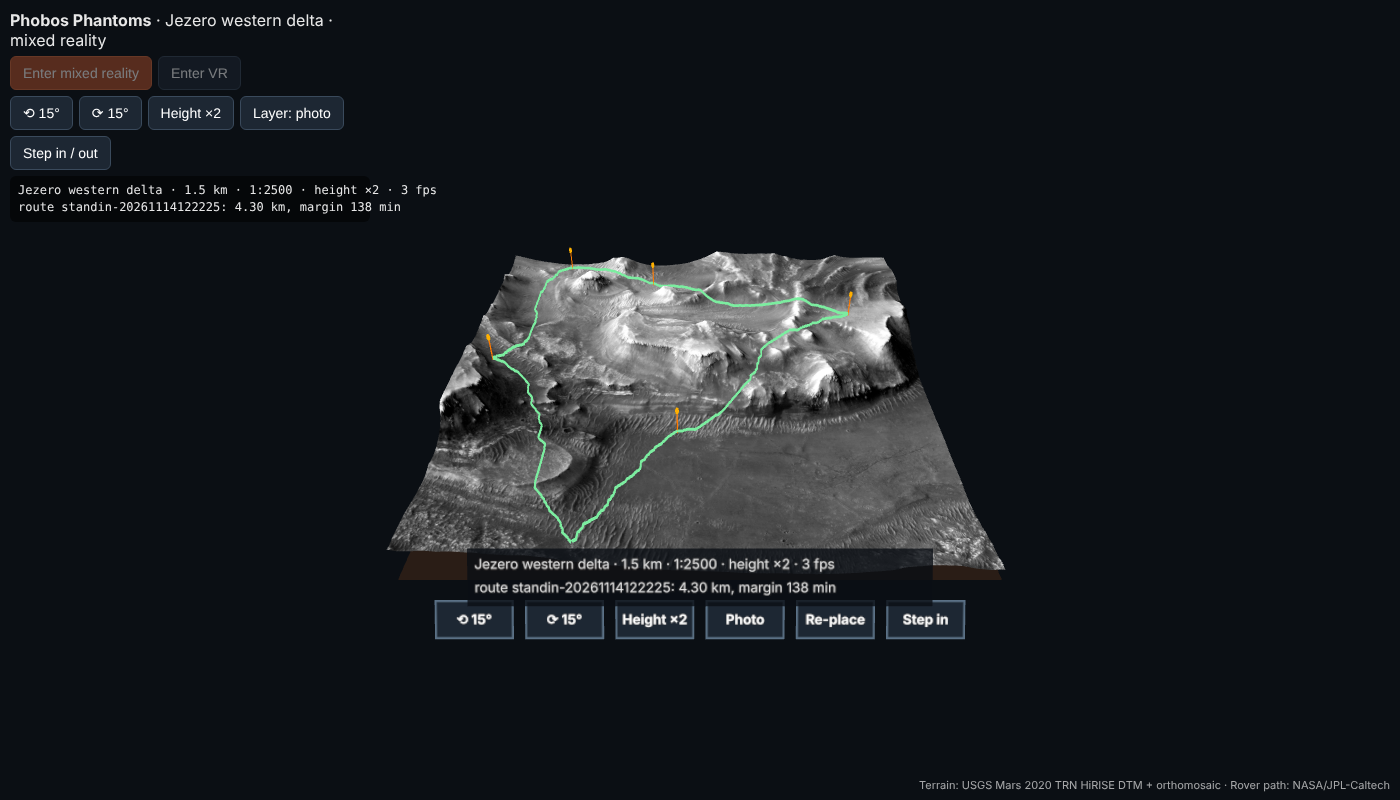
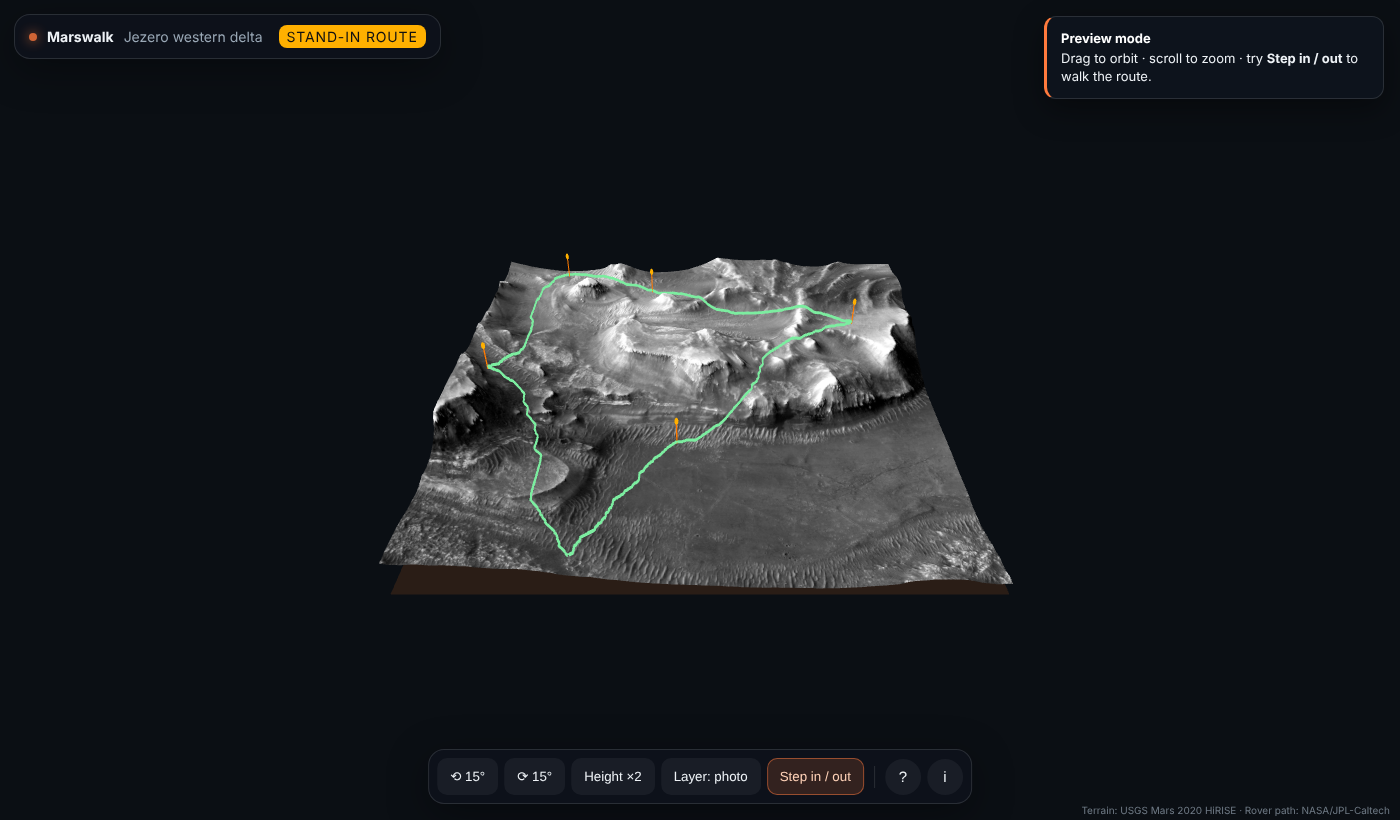
[P5] Headset page: welcome screen, onboarding guide in page and headset, toolbar, toasts

diff --git a/xr/src/ui.css b/xr/src/ui.css
@@ -1,0 +1,89 @@
+/* Written with AI assistance (Claude). Marswalk headset page: welcome + HUD. Track [P5]. */
+:root { --bg:#06090f; --glass:rgba(14,20,30,.62); --line:rgba(255,255,255,.12); --txt:#eef2f6; --mut:#9aa8b6; --mars:#ff7a3d; --mars2:#ffb26b; --ok:#5ee2a0; }
+* { box-sizing: border-box; }
+html, body { margin:0; height:100%; background:var(--bg); color:var(--txt); font-family: "Inter", system-ui, -apple-system, "Segoe UI", sans-serif; overflow:hidden; }
+canvas { display:block; }
+.hidden { display:none !important; }
+.glass { background:var(--glass); backdrop-filter: blur(14px) saturate(140%); -webkit-backdrop-filter: blur(14px) saturate(140%); border:1px solid var(--line); border-radius:16px; box-shadow: 0 10px 40px rgba(0,0,0,.35); }
+.dot { width:8px; height:8px; border-radius:50%; background:var(--mars); box-shadow:0 0 12px var(--mars); display:inline-block; animation: blink 2.4s infinite; }
+@keyframes blink { 50% { opacity:.35; } }
+
+/* ---------- welcome ---------- */
+#welcome { position:fixed; inset:0; z-index:20; display:grid; place-items:center; overflow:hidden;
+  background: radial-gradient(1200px 700px at 75% 110%, rgba(255,110,50,.28), transparent 60%), radial-gradient(900px 600px at 10% -10%, rgba(80,120,255,.12), transparent 60%), var(--bg);
+  transition: opacity .7s ease, visibility .7s; }
+#welcome.out { opacity:0; visibility:hidden; }
+.stars, .stars.s2 { position:absolute; inset:-50%; background-image:
+  radial-gradient(1px 1px at 20% 30%, #fff8, transparent), radial-gradient(1px 1px at 70% 80%, #fff6, transparent),
+  radial-gradient(1.5px 1.5px at 40% 60%, #fffa, transparent), radial-gradient(1px 1px at 85% 15%, #fff7, transparent),
+  radial-gradient(1px 1px at 55% 45%, #fff5, transparent), radial-gradient(1.2px 1.2px at 10% 85%, #fff8, transparent);
+  background-size: 320px 320px; animation: drift 120s linear infinite; opacity:.8; }
+.stars.s2 { background-size: 540px 540px; animation-duration: 200s; opacity:.5; }
+@keyframes drift { to { transform: translate3d(-320px, -160px, 0); } }
+.planet { position:absolute; width:120vmax; height:120vmax; left:50%; top:78%; transform:translateX(-50%); border-radius:50%;
+  background: radial-gradient(circle at 50% 30%, #c4552a 0%, #7a2d14 35%, #2a0e06 60%, transparent 61%);
+  box-shadow: 0 -30px 140px rgba(255,110,50,.45); opacity:.85; animation: rise 2.2s cubic-bezier(.2,.8,.2,1) both; }
+@keyframes rise { from { transform: translate(-50%, 18%); opacity:0; } }
+.scan { position:absolute; inset:0; background: repeating-linear-gradient(180deg, rgba(255,255,255,.025) 0 1px, transparent 1px 3px); pointer-events:none; }
+.card { position:relative; width:min(760px, 92vw); padding:34px 36px 26px; border-radius:24px; background:rgba(12,17,26,.66);
+  border:1px solid rgba(255,255,255,.14); backdrop-filter: blur(18px); -webkit-backdrop-filter: blur(18px);
+  box-shadow: 0 30px 80px rgba(0,0,0,.55), inset 0 1px 0 rgba(255,255,255,.08); animation: up .9s .15s cubic-bezier(.2,.8,.2,1) both; }
+.card::before { content:""; position:absolute; inset:-1px; border-radius:24px; padding:1px; pointer-events:none;
+  background: linear-gradient(120deg, rgba(255,122,61,.8), transparent 35%, transparent 65%, rgba(120,160,255,.5));
+  -webkit-mask: linear-gradient(#000 0 0) content-box, linear-gradient(#000 0 0); -webkit-mask-composite: xor; mask-composite: exclude; }
+@keyframes up { from { transform: translateY(24px); opacity:0; } }
+.eyebrow { font-size:12px; letter-spacing:.14em; text-transform:uppercase; color:var(--mut); display:flex; gap:10px; align-items:center; }
+h1 { margin:10px 0 6px; font-size: clamp(44px, 7vw, 76px); line-height:1; letter-spacing:-.03em; font-weight:800; }
+h1 span { background: linear-gradient(90deg, var(--mars), var(--mars2)); -webkit-background-clip:text; background-clip:text; color:transparent; }
+.lead { font-size:18px; color:#d7dee6; margin:0 0 18px; max-width:600px; line-height:1.45; }
+.chips { display:flex; flex-wrap:wrap; gap:8px; margin-bottom:20px; min-height:34px; }
+.chip { padding:7px 12px; border-radius:999px; background:rgba(255,255,255,.06); border:1px solid var(--line); font-size:13px; color:#dfe6ee; animation: up .5s both; }
+.chip b { color:#fff; } .chip.warn { border-color: rgba(255,178,107,.5); color: var(--mars2); }
+.chip.skeleton { color:var(--mut); background: linear-gradient(90deg, rgba(255,255,255,.04), rgba(255,255,255,.1), rgba(255,255,255,.04)); background-size:200% 100%; animation: shimmer 1.4s infinite; }
+@keyframes shimmer { to { background-position: -200% 0; } }
+.steps { list-style:none; padding:0; margin:0 0 24px; display:grid; grid-template-columns: repeat(3, 1fr); gap:12px; }
+.steps li { display:flex; gap:12px; padding:14px; border-radius:14px; background:rgba(255,255,255,.04); border:1px solid var(--line); animation: up .6s both; }
+.steps li:nth-child(2) { animation-delay:.1s; } .steps li:nth-child(3) { animation-delay:.2s; }
+.steps .ico { flex:none; width:34px; height:34px; border-radius:10px; display:grid; place-items:center; font-size:18px; color:var(--mars2); background:rgba(255,122,61,.12); border:1px solid rgba(255,122,61,.35); }
+.steps b { display:block; font-size:15px; margin-bottom:3px; } .steps span { font-size:13px; color:var(--mut); line-height:1.4; }
+.cta { display:flex; flex-wrap:wrap; gap:12px; align-items:center; }
+.btn { position:relative; font: 600 16px/1 inherit; font-family:inherit; padding:15px 22px; border-radius:14px; cursor:pointer; border:1px solid var(--line); color:var(--txt); background:rgba(255,255,255,.06); transition: transform .15s, background .2s, box-shadow .2s; }
+.btn:hover:not(:disabled) { transform: translateY(-1px); background:rgba(255,255,255,.1); }
+.btn.primary { background: linear-gradient(135deg, var(--mars), #e2452a); border-color: transparent; box-shadow: 0 8px 30px rgba(255,100,50,.4); padding-left:38px; }
+.btn.primary:hover:not(:disabled) { box-shadow: 0 10px 40px rgba(255,100,50,.6); }
+.btn:disabled { opacity:.4; cursor:default; box-shadow:none; }
+.btn .pulse { position:absolute; left:16px; top:50%; width:10px; height:10px; margin-top:-5px; border-radius:50%; background:#fff; animation: ping 1.6s infinite; }
+@keyframes ping { 0% { box-shadow: 0 0 0 0 rgba(255,255,255,.7); } 100% { box-shadow: 0 0 0 12px rgba(255,255,255,0); } }
+.note { margin:14px 0 0; font-size:13px; color:var(--mut); min-height:18px; }
+.note.good { color: var(--ok); }
+.progress { margin-top:18px; height:3px; border-radius:3px; background:rgba(255,255,255,.08); overflow:hidden; }
+#bar { height:100%; width:8%; background: linear-gradient(90deg, var(--mars), var(--mars2)); transition: width .6s ease; }
+.foot { position:absolute; bottom:12px; left:0; right:0; text-align:center; font-size:11px; color:var(--mut); opacity:.8; }
+@media (max-width: 720px), (max-height: 700px) {
+  #welcome { place-items: start center; overflow-y: auto; padding: 16px 0 24px; }
+  .steps { grid-template-columns: 1fr; gap:8px; } .steps li { padding:10px 12px; }
+  .card { padding:22px 18px; } .lead { font-size:16px; } h1 { font-size:46px; }
+  .foot { position: static; margin-top: 12px; padding: 0 16px; }
+}
+
+/* ---------- HUD ---------- */
+#brand { position:fixed; top:14px; left:14px; z-index:5; display:flex; align-items:center; gap:10px; padding:10px 14px; font-size:14px; animation: up .5s both; }
+#brand em { color:var(--mut); font-style:normal; }
+.badge { margin-left:6px; padding:3px 8px; border-radius:8px; font: 700 11px/1.3 inherit; letter-spacing:.06em; background:#ffb000; color:#111; }
+#ui { position:fixed; bottom:16px; left:50%; transform:translateX(-50%); z-index:5; display:flex; align-items:center; gap:6px; padding:8px; flex-wrap:wrap; justify-content:center; max-width:96vw; animation: up .5s .1s both; }
+.tool { font: 600 13px/1 inherit; font-family:inherit; color:var(--txt); background:rgba(255,255,255,.05); border:1px solid transparent; padding:10px 12px; border-radius:10px; cursor:pointer; transition: background .15s, border-color .15s; white-space:nowrap; }
+.tool:hover:not(:disabled) { background:rgba(255,255,255,.12); border-color: var(--line); }
+.tool.primary { background: linear-gradient(135deg, var(--mars), #e2452a); }
+.tool.accent { background: rgba(255,122,61,.16); border-color: rgba(255,122,61,.5); color:#ffd2b8; }
+.tool.round { width:36px; height:36px; padding:0; border-radius:50%; font-size:15px; }
+.tool:disabled { opacity:.35; cursor:default; }
+.sep { width:1px; height:22px; background: var(--line); margin:0 4px; }
+#datapanel { position:fixed; top:64px; left:14px; z-index:5; padding:12px 14px; max-width:min(440px, 92vw); animation: up .3s both; }
+#datapanel .ph { font-size:11px; letter-spacing:.12em; text-transform:uppercase; color:var(--mut); margin-bottom:6px; }
+#status { font: 12px/1.5 ui-monospace, "SF Mono", Consolas, monospace; white-space: pre-wrap; color:#cfd8e2; }
+#toasts { position:fixed; top:16px; right:16px; z-index:30; display:flex; flex-direction:column; gap:8px; align-items:flex-end; pointer-events:none; }
+.toast { pointer-events:auto; max-width:340px; padding:12px 14px; border-radius:12px; background:rgba(14,20,30,.88); border:1px solid var(--line); border-left:3px solid var(--mars); font-size:13px; line-height:1.4; box-shadow:0 10px 30px rgba(0,0,0,.4); animation: tin .35s cubic-bezier(.2,.8,.2,1) both; }
+.toast b { display:block; margin-bottom:2px; color:#fff; } .toast.out { animation: tout .3s both; }
+@keyframes tin { from { transform: translateX(30px); opacity:0; } } @keyframes tout { to { transform: translateX(30px); opacity:0; } }
+#credit { position:fixed; bottom:4px; right:10px; font-size:10px; color:var(--mut); opacity:.7; z-index:4; }
+@media (prefers-reduced-motion: reduce) { * { animation:none !important; transition:none !important; } }

diff --git a/xr/src/main.js b/xr/src/main.js
@@ -19,6 +19,8 @@ const EXAGS = [1, 2, 4];          // height exaggeration options; default x2
 const PINCH_ON = 0.02, PINCH_OFF = 0.035;
 const statusEl = document.getElementById("status");
 const setStatus = (t) => { statusEl.textContent = t; };
+const emit = (name, detail = {}) => window.dispatchEvent(new CustomEvent("phobos:" + name, { detail }));
+
 
 // ---------- renderer / scene ----------
 const renderer = new THREE.WebGLRenderer({ antialias: true, alpha: true });
@@ -112,6 +114,10 @@ async function init() {
   applyScale(1);
   setStatus(info());
   enableButtons();
+  const pr = routeData?.properties;
+  emit("ready", { routeInfo, standin: String(pr?.plan_id || "").startsWith("standin-"),
+    length_km: pr ? pr.length_m / 1000 : null, margin_min: pr?.margin_min ?? null, stops: pr?.stops?.length ?? 0,
+    eva: winData?.eva_window ?? null });
 }
 
 // ---------- route ribbon ----------
@@ -260,6 +266,7 @@ async function enterXR(mode) {
   await renderer.xr.setSession(session);
   scene.background = mode === "immersive-ar" ? null : desktopBg;
   placed = false; anchor.visible = false; sessionStart = performance.now();
+  emit("session", { mode }); showHint("place");
   if (mode === "immersive-ar") {
     const viewer = await session.requestReferenceSpace("viewer");
     hitSource = await session.requestHitTestSource({ space: viewer });
@@ -267,14 +274,15 @@ async function enterXR(mode) {
   session.addEventListener("end", () => {
     if (walking) stopWalk();
     hitSource = null; scene.background = desktopBg; placed = true; anchor.visible = true;
-    anchor.position.set(0, 0, 0); reticle.visible = false;
+    anchor.position.set(0, 0, 0); reticle.visible = false; hint.visible = false;
+    emit("session-end");
   });
 }
 function enableButtons() {
   const ar = document.getElementById("btn-ar"), vr = document.getElementById("btn-vr");
-  if (!navigator.xr) { setStatus(info() + "\n(WebXR not available here — desktop preview only)"); return; }
-  navigator.xr.isSessionSupported("immersive-ar").then((ok) => { ar.disabled = !ok; });
-  navigator.xr.isSessionSupported("immersive-vr").then((ok) => { vr.disabled = !ok; });
+  if (!navigator.xr) { setStatus(info() + "\n(WebXR not available here — desktop preview only)"); emit("xr", { ar: false, vr: false }); return; }
+  Promise.all([navigator.xr.isSessionSupported("immersive-ar").catch(() => false), navigator.xr.isSessionSupported("immersive-vr").catch(() => false)])
+    .then(([a, v]) => { ar.disabled = !a; vr.disabled = !v; emit("xr", { ar: a, vr: v }); });
   ar.onclick = () => enterXR("immersive-ar").catch((e) => setStatus("AR failed: " + e.message));
   vr.onclick = () => enterXR("immersive-vr").catch((e) => setStatus("VR failed: " + e.message));
 }
@@ -284,6 +292,7 @@ function placeAt(pos) {   // put the hologram at pos, turned so the button panel
   anchor.position.copy(pos);
   anchor.rotation.set(0, Math.atan2(cam.position.x - pos.x, cam.position.z - pos.z), 0);
   anchor.visible = true; placed = true; reticle.visible = false;
+  showHint("explore");
 }
 function placeInFront() {
   const cam = renderer.xr.getCamera();
@@ -447,6 +456,8 @@ function startWalk() {
   walkYaw = Math.atan2(f.x, f.z) - Math.atan2(v.x, v.z);
   model.rotation.set(0, walkYaw, 0);
   updateWalk(performance.now());
+  emit("walk", { on: true });
+  if (renderer.xr.isPresenting) showHint("walk", 8000);
 }
 
 function stopWalk() {
@@ -461,6 +472,7 @@ function stopWalk() {
     applyScale(walkSaved.mult);
   }
   lastVisorKey = "";
+  emit("walk", { on: false });
 }
 
 const tmpV = new THREE.Vector3(), tmpQ = new THREE.Quaternion();
@@ -503,6 +515,41 @@ const walkInfo = () => walkNow
 // desktop: HTML Step in / Step out
 document.getElementById("btn-walk").onclick = () => (walking ? stopWalk() : startWalk());
 
+// ---------- in-headset guidance (a small card that floats below your line of sight) ----------
+const hintCanvas = document.createElement("canvas"); hintCanvas.width = 1024; hintCanvas.height = 256;
+const hintTex = new THREE.CanvasTexture(hintCanvas); hintTex.colorSpace = THREE.SRGBColorSpace;
+const hint = new THREE.Mesh(new THREE.PlaneGeometry(0.36, 0.09),
+  new THREE.MeshBasicMaterial({ map: hintTex, transparent: true, depthTest: false, depthWrite: false, fog: false }));
+hint.renderOrder = 11; hint.visible = false; scene.add(hint);
+const HINTS = {
+  place: ["STEP 1 · PLACE", "Look at a table until a white ring appears, then pinch (or pull the trigger)."],
+  explore: ["STEP 2 · EXPLORE", "Pinch & drag to move · two hands to scale · use the panel to rotate, change height or layer."],
+  walk: ["STEP 3 · WALK", "You are on Mars at full size. The visor shows your margin. Pause, speed or Step out at waist height."],
+};
+let hintUntil = 0;
+function showHint(key, ms = 9000) {
+  const [title, body] = HINTS[key]; const g = hintCanvas.getContext("2d");
+  g.clearRect(0, 0, 1024, 256);
+  g.fillStyle = "rgba(10,16,24,0.82)"; g.strokeStyle = "#ff8a4c"; g.lineWidth = 4;
+  g.beginPath(); g.roundRect(6, 6, 1012, 244, 28); g.fill(); g.stroke();
+  g.fillStyle = "#ff8a4c"; g.font = "700 40px system-ui, sans-serif"; g.fillText(title, 40, 70);
+  g.fillStyle = "#ffffff"; g.font = "36px system-ui, sans-serif";
+  const words = body.split(" "); let line = "", y = 135;
+  for (const w of words) { if (g.measureText(line + w).width > 940) { g.fillText(line, 40, y); line = ""; y += 48; } line += w + " "; }
+  g.fillText(line, 40, y);
+  hintTex.needsUpdate = true; hint.visible = renderer.xr.isPresenting; hint.userData.init = false;
+  hintUntil = key === "place" ? Infinity : performance.now() + ms;
+}
+function updateHint(now) {
+  if (!hint.visible) return;
+  if (now > hintUntil || (placed && hintUntil === Infinity)) { hint.visible = false; return; }
+  const cam = renderer.xr.getCamera(); const pos = new THREE.Vector3(), q = new THREE.Quaternion();
+  cam.getWorldPosition(pos); cam.getWorldQuaternion(q);
+  hint.quaternion.slerp(q, hint.userData.init ? 0.08 : 1);
+  hint.position.copy(pos).add(new THREE.Vector3(0, -0.16, -0.7).applyQuaternion(hint.quaternion));
+  hint.userData.init = true;
+}
+
 // ---------- loop ----------
 let frames = 0, t0 = performance.now();
 renderer.setAnimationLoop((time, frame) => {
@@ -519,8 +566,10 @@ renderer.setAnimationLoop((time, frame) => {
       if (!reticle.visible && now - sessionStart > 5000) placeInFront();   // fallback: 0.6 m in front
     } else if (!placed && !hitSource) placeInFront();
     updateHands();
+    updateHint(now);
   } else orbit.update();
   if (walking) updateWalk(now);
+  panel.visible = renderer.xr.isPresenting && !walking;   // in-world panel is for the headset; the page has its own toolbar
   renderer.render(scene, camera);
 });
 

diff --git a/xr/index.html b/xr/index.html
@@ -3,33 +3,66 @@
 <head>
   <meta charset="utf-8" />
   <meta name="viewport" content="width=device-width, initial-scale=1" />
-  <title>Phobos Phantoms — Jezero Marswalk (mixed reality)</title>
-  <style>
-    html, body { margin: 0; height: 100%; background: #0b0f14; color: #e8e8e8; font-family: system-ui, sans-serif; overflow: hidden; }
-    #ui { position: fixed; top: 10px; left: 10px; z-index: 2; display: flex; flex-direction: column; gap: 6px; max-width: 360px; }
-    #ui .row { display: flex; gap: 6px; flex-wrap: wrap; }
-    button { background: #1d2733; color: #fff; border: 1px solid #3a4a5c; border-radius: 6px; padding: 8px 12px; font-size: 14px; cursor: pointer; }
-    button.primary { background: #b4512a; border-color: #d76a3d; }
-    button:disabled { opacity: .45; cursor: default; }
-    #status { font: 12px/1.4 ui-monospace, monospace; background: #0008; padding: 6px 8px; border-radius: 6px; white-space: pre; }
-    #credit { position: fixed; bottom: 8px; right: 10px; font-size: 11px; opacity: .7; z-index: 2; }
-  </style>
+  <meta name="theme-color" content="#06090f" />
+  <title>Marswalk · Jezero in mixed reality · Phobos Phantoms</title>
+  <link rel="stylesheet" href="./src/ui.css" />
 </head>
 <body>
-  <div id="ui">
-    <div><b>Phobos Phantoms</b> · Jezero western delta · mixed reality</div>
-    <div class="row">
-      <button id="btn-ar" class="primary" disabled>Enter mixed reality</button>
-      <button id="btn-vr" disabled>Enter VR</button>
+  <!-- ===== Welcome / onboarding ===== -->
+  <section id="welcome" aria-label="Welcome">
+    <div class="stars"></div><div class="stars s2"></div>
+    <div class="planet"></div>
+    <div class="scan"></div>
+    <div class="card">
+      <div class="eyebrow"><span class="dot"></span> NASA Space Apps 2026 · Phobos Phantoms OG 7.66</div>
+      <h1>Mars<span>walk</span></h1>
+      <p class="lead">Rehearse a safe walk on <b>Jezero Crater, Mars</b>, right on your desk. Then step in and walk it at full size.</p>
+
+      <div class="chips" id="chips">
+        <div class="chip skeleton">Loading mission data…</div>
+      </div>
+
+      <ol class="steps">
+        <li><div class="ico">◎</div><div><b>Place</b><span>Look at a table, pinch the white ring. The 1.5 km crater area lands on your desk.</span></div></li>
+        <li><div class="ico">✥</div><div><b>Explore</b><span>Pinch-drag to move, two hands to scale. Switch photo or slope, exaggerate height.</span></div></li>
+        <li><div class="ico">⇲</div><div><b>Step in</b><span>Walk the planned route at 1:1 with a visor showing time margin, slope, AI hazard and the next stop.</span></div></li>
+      </ol>
+
+      <div class="cta">
+        <button id="go-ar" class="btn primary" disabled><span class="pulse"></span>Enter mixed reality</button>
+        <button id="go-preview" class="btn ghost">Preview on this screen</button>
+      </div>
+      <p class="note" id="xr-note">Checking your device…</p>
+      <div class="progress"><div id="bar"></div></div>
     </div>
-    <div class="row">
-      <button id="btn-rotl">⟲ 15°</button><button id="btn-rotr">⟳ 15°</button>
-      <button id="btn-exag">Height ×2</button><button id="btn-layer">Layer: photo</button>
-      <button id="btn-walk">Step in / out</button>
-    </div>
-    <div id="status">loading…</div>
-  </div>
-  <div id="credit">Terrain: USGS Mars 2020 TRN HiRISE DTM + orthomosaic · Rover path: NASA/JPL-Caltech</div>
+    <footer class="foot">Terrain: USGS Mars 2020 TRN HiRISE DTM + orthomosaic · Rover path: NASA/JPL-Caltech · Minerals: CRISM (MRO)</footer>
+  </section>
+
+  <!-- ===== In-app HUD (after the welcome) ===== -->
+  <header id="brand" class="glass hidden">
+    <span class="dot"></span><b>Marswalk</b><em>Jezero western delta</em>
+    <span id="badge" class="badge hidden">STAND-IN ROUTE</span>
+  </header>
+
+  <nav id="ui" class="glass hidden" aria-label="Controls">
+    <button id="btn-ar" class="tool primary" disabled title="Enter mixed reality (Quest)">Enter mixed reality</button>
+    <button id="btn-vr" class="tool" disabled title="Enter VR">Enter VR</button>
+    <span class="sep"></span>
+    <button id="btn-rotl" class="tool" title="Rotate left 15°">⟲ 15°</button>
+    <button id="btn-rotr" class="tool" title="Rotate right 15°">⟳ 15°</button>
+    <button id="btn-exag" class="tool" title="Exaggerate height">Height ×2</button>
+    <button id="btn-layer" class="tool" title="Photo or slope">Layer: photo</button>
+    <button id="btn-walk" class="tool accent" title="Walk the route at full size">Step in / out</button>
+    <span class="sep"></span>
+    <button id="btn-help" class="tool round" title="How it works">?</button>
+    <button id="btn-data" class="tool round" title="Mission data">i</button>
+  </nav>
+
+  <aside id="datapanel" class="glass hidden"><div class="ph">Mission data</div><div id="status">loading…</div></aside>
+  <div id="toasts" aria-live="polite"></div>
+  <div id="credit">Terrain: USGS Mars 2020 HiRISE · Rover path: NASA/JPL-Caltech</div>
+
+  <script type="module" src="./src/onboarding.js"></script>
   <script type="module" src="./src/main.js"></script>
 </body>
 </html>

diff --git a/xr/src/onboarding.js b/xr/src/onboarding.js
@@ -1,0 +1,67 @@
+// Written with AI assistance (Claude).
+// Welcome screen, guide, toasts and HUD wiring for the headset page. Listens to "phobos:*" events from main.js.
+// Track [P5].
+const $ = (id) => document.getElementById(id);
+const welcome = $("welcome"), goAR = $("go-ar"), goPrev = $("go-preview"), note = $("xr-note"), bar = $("bar");
+const hud = [$("brand"), $("ui")];
+let ready = false, xr = null;
+
+bar.style.width = "35%";
+function toast(title, body, ms = 5200) {
+  const t = document.createElement("div"); t.className = "toast";
+  t.innerHTML = `<b>${title}</b>${body}`;
+  $("toasts").appendChild(t);
+  setTimeout(() => { t.classList.add("out"); setTimeout(() => t.remove(), 320); }, ms);
+}
+function closeWelcome() {
+  welcome.classList.add("out");
+  hud.forEach((el) => el.classList.remove("hidden"));
+}
+function openWelcome() { welcome.classList.remove("out"); }
+
+function refreshCTA() {
+  if (!ready || xr === null) return;
+  if (xr.ar) {
+    goAR.disabled = false; note.className = "note good";
+    note.textContent = "Headset ready. Put the Quest on, look at a clear table, then press Enter mixed reality.";
+  } else {
+    goAR.disabled = true;
+    note.className = "note";
+    note.textContent = xr.vr ? "Mixed reality isn't available here; use Preview, or Enter VR from the toolbar."
+      : "To step in, open this page in the Meta Quest Browser. On this screen you can preview everything.";
+  }
+}
+
+window.addEventListener("phobos:ready", (e) => {
+  const d = e.detail; ready = true; bar.style.width = "100%";
+  const chips = $("chips"); chips.innerHTML = "";
+  const add = (html, cls = "") => { const c = document.createElement("div"); c.className = "chip " + cls; c.innerHTML = html; chips.appendChild(c); };
+  add("<b>1.5 × 1.5 km</b> of real NASA terrain");
+  if (d.length_km) add(`Planned route <b>${d.length_km.toFixed(2)} km</b>`);
+  if (d.stops) add(`<b>${d.stops}</b> science stops`);
+  if (d.margin_min != null) add(`Walk-back margin <b>${Math.floor(d.margin_min)} min</b>`);
+  if (d.eva) add(`EVA window <b>${String(d.eva.start_ltst).padStart(2, "0")}:00–${String(d.eva.end_ltst).padStart(2, "0")}:00</b> local solar time`);
+  if (d.standin) { add("Stand-in planner", "warn"); $("badge").classList.remove("hidden"); }
+  setTimeout(() => (bar.parentElement.style.opacity = "0"), 700);
+  refreshCTA();
+});
+window.addEventListener("phobos:xr", (e) => {
+  xr = e.detail; refreshCTA();
+  if (!xr.ar) $("btn-ar").classList.add("hidden");   // keep the toolbar to what this device can do
+  if (!xr.vr) $("btn-vr").classList.add("hidden");
+  if (!xr.ar && !xr.vr) document.querySelector("#ui .sep").classList.add("hidden");
+});
+window.addEventListener("phobos:session", () => { welcome.classList.add("out"); });
+window.addEventListener("phobos:session-end", () => toast("Back on your screen", "Press Enter mixed reality to go back in."));
+window.addEventListener("phobos:walk", (e) => {
+  if (e.detail.on) toast("Walking the planned route", "Full size, at 30× speed. Drag to look around. Press Step in / out to return to the desk view.", 6500);
+});
+
+goAR.onclick = () => { closeWelcome(); $("btn-ar").click(); };
+goPrev.onclick = () => {
+  closeWelcome();
+  toast("Preview mode", "Drag to orbit · scroll to zoom · try <strong>Step in / out</strong> to walk the route.", 6500);
+};
+$("btn-help").onclick = openWelcome;
+$("btn-data").onclick = () => $("datapanel").classList.toggle("hidden");
+addEventListener("keydown", (e) => { if (e.key === "Escape" && !welcome.classList.contains("out") && ready) goPrev.click(); });

diff --git a/xr/README.md b/xr/README.md
@@ -21,6 +21,11 @@ Quest Browser → `http://localhost:5173` → **Enter mixed reality**. `?lod=256
 - **Pinch and drag** near the model = move. **Pinch with both hands** and pull apart = scale (0.25× – 4×).
 - Buttons in front of the model: **⟲ 15° / ⟳ 15°** rotate, **Height ×1/×2/×4**, **Photo/Slope** layer, **Re-place**.
 
+## Welcome and guidance
+- The page opens on a **welcome screen**: what Marswalk is, live mission numbers from the data files (route length, stops, walk-back margin, EVA window, stand-in marking), the three steps (Place, Explore, Step in), **Enter mixed reality** (enabled only on a headset that supports it) and **Preview on this screen**. `?` in the toolbar reopens it; `i` shows the mission data.
+- In the headset a small guide card floats below your line of sight: step 1 (place) until the hologram is placed, step 2 (explore) for 9 s after placing, step 3 (walk) for 8 s after Step in.
+- Code: `index.html`, `src/ui.css`, `src/onboarding.js` (listens to `phobos:*` events from `src/main.js`).
+
 ## Step-in walk + visor (PLAN D26)
 - **Step in** (last button on the desk panel, or "Step in / out" on the PC) turns the hologram into the real terrain at **1:1** around you, with a Mars sky and haze, and walks the planned route from the start.
 - The ground ribbon is the route coloured by walk-back margin; the tall orange beacons are the science stops.

diff --git a/AI_USAGE.md b/AI_USAGE.md
@@ -26,3 +26,4 @@ AI-generated images or video must carry a visible watermark and must not use or 
 | 2026-11-14 | Ramish | Claude (Anthropic) | Stand-in time window (Mars24 sun + MEDA conditions), stand-in proof vs Perseverance, /window fallback and /results endpoints, tests; SOURCES.md licences and DOIs; README live links | pipeline/window_basic.py, pipeline/proof_basic.py, pipeline/api.py, pipeline/test_window_proof.py, pipeline/fallback/, results.md, SOURCES.md, README.md |
 | 2026-11-14 | Ramish | Claude (Anthropic) | Headset step-in walk + visor (walk logic and tests, visor drawing, 1:1 terrain, walk controls) | xr/ |
 | 2026-11-14 | Ramish | Claude (Anthropic) | Planner service hosting moved to Render: staging/push script, PLAN/README/SOURCES updates | pipeline/render/, PLAN.md, README.md, SOURCES.md |
+| 2026-11-14 | Ramish | Claude (Anthropic) | Headset page welcome screen, onboarding guide (page and in-headset), toolbar, toasts | xr/index.html, xr/src/ui.css, xr/src/onboarding.js, xr/src/main.js |
